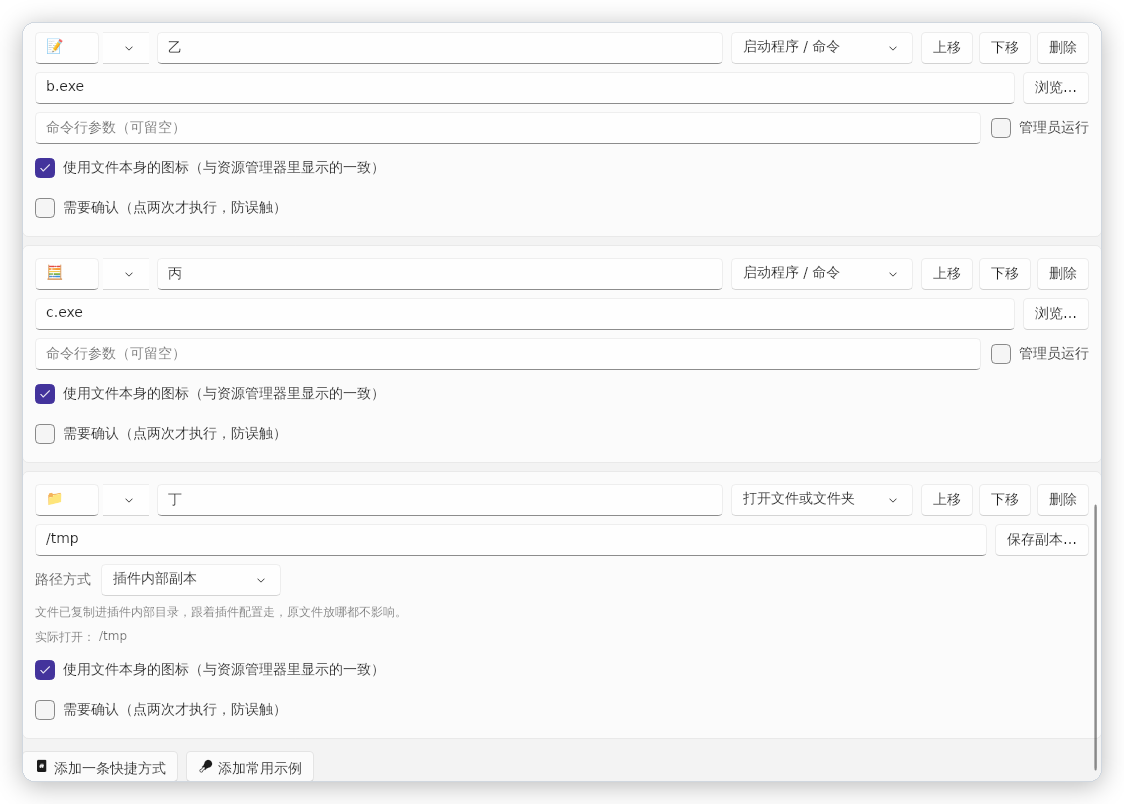
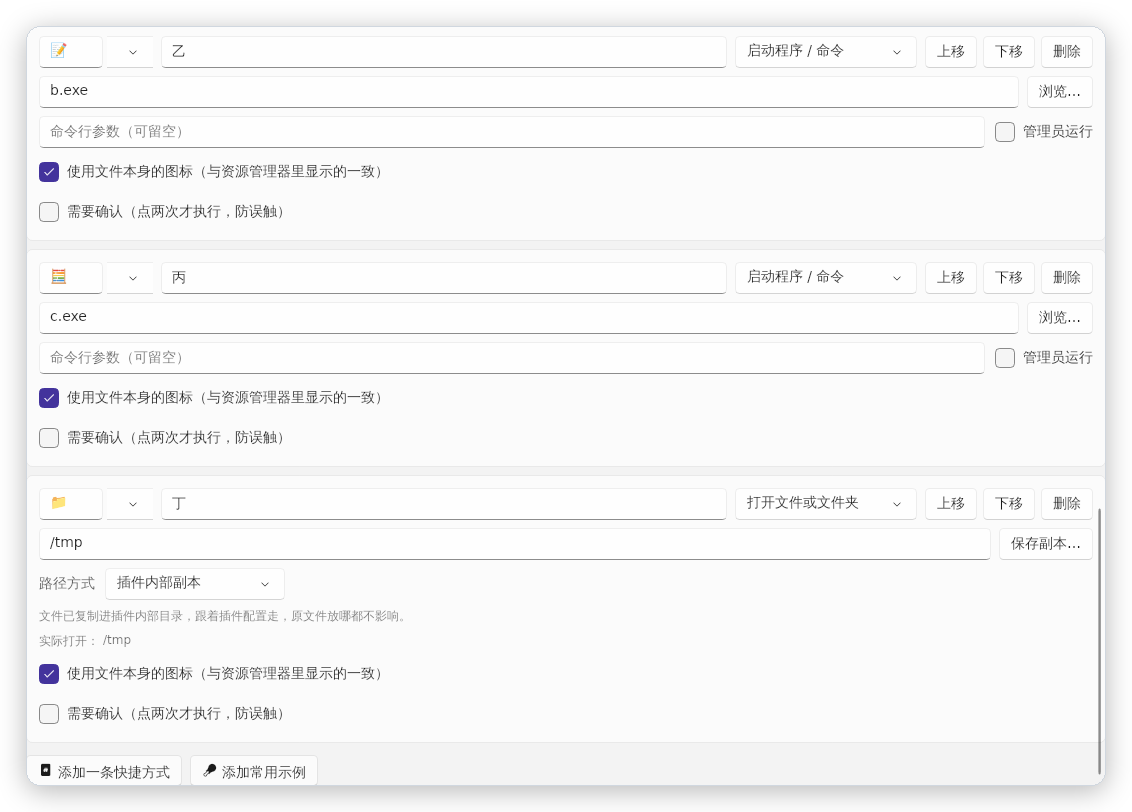
抽签结果改成单朵云，README 致谢去掉自证式表述
- RevealWindow 从头重写：整张卡片就是一朵云，去掉天空背景层和「幸运抽签结果」
  标签，云里只写人名。窗口保持透明，看上去是「一朵云飘在课件上」而不是
  「窗口里画了朵云」。最长连续相同代码块 62 行 → 1 行。
- 顺带清掉一个死参数：Reveal 的 note 从来没被任何调用点传过。
- 补回重写时漏掉的 using（Avalonia.Animation / Avalonia.Layout）——少了它们
  编译器会把 HorizontalAlignment 解析成控件属性而不是枚举类型。
- 测试适配：旧的 _card/_backdrop 断言换成「云面铺满窗口」。
- README 致谢改成平实表述，去掉「不依赖、不包含、不分发」那类反复自证的措辞；
  如实写明抽选算法与统计窗口、大字窗口实现参考自 RandomPicker。

diff --git a/src/ClassIsland.Toolbox/Views/RevealWindow.cs b/src/ClassIsland.Toolbox/Views/RevealWindow.cs
@@ -5,7 +5,6 @@ using Avalonia.Animation.Easings;
 using Avalonia.Controls;
 using Avalonia.Layout;
 using Avalonia.Media;
-using Avalonia.Media.Imaging;
 using Avalonia.Media.Transformation;
 using Avalonia.Threading;
 using ClassIsland.Toolbox.Interop;
@@ -13,68 +12,78 @@ using ClassIsland.Toolbox.Interop;
 namespace ClassIsland.Toolbox.Views;
 
 /// <summary>
-/// 屏幕中央的大字弹窗。抽到谁就把名字亮在屏幕中间，停留几秒后自己淡出。
+/// 抽到人之后亮在屏幕中央的那朵云。
 /// </summary>
 /// <remarks>
+/// <b>整张卡片就是一朵云，没有别的背景。</b>窗口本身是透明的，云外那圈什么都没有，
+/// 所以看上去就是「一朵云飘在课件上」，而不是「一个窗口里画了朵云」。
+/// 云里只写名字，不写「幸运抽签结果」这类标签——抽到什么一眼就看得到，
+/// 再挂一行说明只是抢注意力。
+/// <para/>
 /// 两个关键设计：
 /// <list type="bullet">
-/// <item><b>窗口只有卡片那么大</b>，不铺满屏幕。早先版本是整屏窗口，结果它把悬浮钮盖住了，
+/// <item><b>窗口只有云那么大，不铺满屏幕。</b>早先版本是整屏窗口，结果它把悬浮钮盖住了，
 ///       连着抽人时第二下点的是它而不是钮，表现就是「点不动」。
-///       试过用 <c>WS_EX_TRANSPARENT</c> 让它穿透，但那个样式只在窗口同时是 LAYERED 时才对命中测试生效，
-///       而给 Avalonia 的透明窗口补 <c>WS_EX_LAYERED</c> 会打乱它自己的合成，窗口直接不显示。
-///       两条路都堵死，索性从根上解决：窗口不覆盖屏幕，就没有挡不挡的问题。</item>
-/// <item><b>单例复用</b>。再抽一次不新开窗口，直接换掉里面的名字并重置计时，
+///       试过用 <c>WS_EX_TRANSPARENT</c> 让它穿透，但那个样式只在窗口同时是 LAYERED 时
+///       才对命中测试生效，而给 Avalonia 的透明窗口补 <c>WS_EX_LAYERED</c> 会打乱它自己的合成，
+///       窗口直接不显示。两条路都堵死，索性从根上解决：窗口不覆盖屏幕，就没有挡不挡的问题。</item>
+/// <item><b>单例复用。</b>再抽一次不新开窗口，直接换掉里面的名字并重置计时，
 ///       避免连点时叠出一摞窗口。</item>
 /// </list>
 /// </remarks>
 public class RevealWindow : Window
 {
-    // 和工具条同一套「云朵 + 天空」：淡蓝描边、深蓝灰的字。
-    private static readonly Color SkyCardBorder = Color.FromRgb(0x93, 0xC1, 0xEB);
-    private static readonly Color SkyCardText = Color.FromRgb(0x33, 0x49, 0x5E);
-    private static readonly Color SkyCardTextSoft = Color.FromRgb(0x6E, 0x86, 0x9B);
+    // 和工具条同一套「云 + 天空」：淡蓝描边、深蓝灰的字。
+    private static readonly Color CloudBorder = Color.FromRgb(0x93, 0xC1, 0xEB);
+    private static readonly Color CloudFill = Color.FromArgb(0xFF, 0xFA, 0xFD, 0xFF);
+    private static readonly Color NameColor = Color.FromRgb(0x2B, 0x42, 0x57);
+
+    /// <summary>云面比名字大多少（倍数）。太小会显得字挤满整朵云。</summary>
+    private const double CloudPaddingX = 1.25;
+
+    private const double CloudPaddingTop = 1.30;
+
+    private const double CloudPaddingBottom = 0.80;
 
     private static RevealWindow? _instance;
 
     private readonly TextBlock _nameText;
-    private readonly TextBlock _caption;
-    private readonly StackPanel _content;
-    private readonly Border _card;
-    private readonly CloudBackdrop _backdrop;
+    private readonly CloudButtonSurface _cloud;
+    private readonly Panel _stage;
     private readonly DispatcherTimer _closeTimer;
     private TopmostEnforcer? _topmost;
     private bool _closing;
 
     /// <summary>
-    /// 显示一个名字。已经有窗口开着就复用它，否则新建。
+    /// 亮出一个名字。已经有窗口开着就复用它，否则新建。
     /// </summary>
-    public static void Show(string text, double fontSize, TimeSpan hold, Color accent) =>
-        Show(text, null, fontSize, hold, accent);
-
-    /// <summary>显示一个名字，下面可以再带一行小字说明。</summary>
-    public static void Show(string text, string? caption, double fontSize, TimeSpan hold, Color accent)
+    /// <param name="name">要显示的名字。</param>
+    /// <param name="fontSize">字号（逻辑像素）。云的大小是按它推出来的。</param>
+    /// <param name="hold">停留多久之后自己淡出。</param>
+    public static void Show(string name, double fontSize, TimeSpan hold)
     {
-        Ensure(hold, accent, fontSize).ShowText(text, caption, fontSize, hold, accent);
+        var window = Ensure(hold, fontSize);
+        window.ShowName(name, fontSize, hold);
     }
 
+    /// <summary>把当前开着的弹窗立刻收掉（比如插件停止时）。</summary>
+    public static void CloseCurrent() => _instance?.FadeOutAndClose();
+
     /// <summary>拿到可用的窗口实例：已经开着就复用，否则新建。</summary>
-    private static RevealWindow Ensure(TimeSpan hold, Color accent, double fontSize)
+    private static RevealWindow Ensure(TimeSpan hold, double fontSize)
     {
         if (_instance is { _closing: false } existing)
         {
             return existing;
         }
 
-        var window = new RevealWindow(string.Empty, fontSize, hold, accent);
+        var window = new RevealWindow(fontSize, hold);
         _instance = window;
         window.Show();
         return window;
     }
 
-    /// <summary>把当前开着的弹窗立刻收掉（比如插件停止时）。</summary>
-    public static void CloseCurrent() => _instance?.FadeOutAndClose();
-
-    private RevealWindow(string name, double fontSize, TimeSpan hold, Color accent)
+    private RevealWindow(double fontSize, TimeSpan hold)
     {
         SystemDecorations = SystemDecorations.None;
         Background = null;
@@ -83,68 +92,43 @@ public class RevealWindow : Window
         Topmost = true;
         CanResize = false;
         ShowActivated = false;
-        // 窗口按卡片大小自适应，居中显示。不铺满屏幕，才不会挡住悬浮钮。
+        // 窗口按云的轮廓自适应，居中显示。不铺满屏幕，才不会挡住悬浮钮。
         SizeToContent = SizeToContent.WidthAndHeight;
         WindowStartupLocation = WindowStartupLocation.CenterScreen;
         IsHitTestVisible = false;
 
-        _caption = new TextBlock
-        {
-            FontSize = 20,
-            Foreground = new SolidColorBrush(SkyCardTextSoft),
-            HorizontalAlignment = HorizontalAlignment.Center,
-            TextAlignment = TextAlignment.Center,
-            TextWrapping = TextWrapping.Wrap,
-            Margin = new Thickness(0, 12, 0, 0),
-            IsVisible = false
-        };
-
         _nameText = new TextBlock
         {
-            Text = name,
             FontSize = fontSize,
             FontWeight = FontWeight.SemiBold,
-            Foreground = new SolidColorBrush(SkyCardText),
+            Foreground = new SolidColorBrush(NameColor),
             HorizontalAlignment = HorizontalAlignment.Center,
             VerticalAlignment = VerticalAlignment.Center,
             TextAlignment = TextAlignment.Center,
-            TextWrapping = TextWrapping.Wrap
+            TextWrapping = TextWrapping.Wrap,
+            MaxWidth = Math.Max(280, fontSize * 4.6)
         };
 
-        _content = new StackPanel
+        // 整朵云就是一个控件，把名字压在上面。
+        // **留白加在名字上，不加在云上**：云是按自己的边界画的，
+        // 给它加 Padding 会把云面挤变形，而不是让名字往里缩。
+        _cloud = new CloudButtonSurface
+        {
+            Fill = CloudFill,
+            Stroke = CloudBorder,
+            StrokeThickness = Math.Max(2.0, fontSize * 0.022),
+            ShadowColor = Color.FromArgb(0x3A, 0x5F, 0x9E, 0xD8)
+        };
+
+        _stage = new Panel
         {
             HorizontalAlignment = HorizontalAlignment.Center,
             VerticalAlignment = VerticalAlignment.Center,
-            Children = { _nameText, _caption }
-        };
-
-        // 幸运抽签弹出的这张卡片也做成「云朵 + 天空」：一层天，飘两朵云，字压在云上。
-        // 不铺全屏遮罩——连着抽人时整屏一明一暗很累眼。
-        _backdrop = new CloudBackdrop
-        {
-            CornerRadius = fontSize * 0.18,
-            CloudOpacity = 0.8
-        };
-
-        // 内边距**不能挂在 Border 上**：Border 的 Padding 会把子元素一起缩进去，
-        // 而背景层也是子元素——结果卡片外圈一圈是没有天空的白边，看着就是"背景没铺满"。
-        // 改成把同样的留白加到内容上：背景铺满整张卡，字还是原来的位置。
-        _content.Margin = new Thickness(fontSize * 0.62, fontSize * 0.34);
-
-        _card = new Border
-        {
-            Background = null,
-            CornerRadius = new CornerRadius(fontSize * 0.18),
-            Padding = new Thickness(0),
-            HorizontalAlignment = HorizontalAlignment.Center,
-            VerticalAlignment = VerticalAlignment.Center,
-            BorderBrush = new SolidColorBrush(SkyCardBorder),
-            BorderThickness = new Thickness(1.8),
-            Child = new Panel { Children = { _backdrop, _content } },
+            Children = { _cloud, _nameText },
             Opacity = 0,
             // 用 TransformOperations 而不是自己搭 ScaleTransform：
-            // 过渡挂在 Border（一个 Visual）上，有自己的时钟能正常跑；
-            // 单独的 ScaleTransform 不是 Visual，交给 Animation.RunAsync 会抛类型转换异常。
+            // 过渡挂在 Visual 上才有自己的时钟；单独的 ScaleTransform 不是 Visual，
+            // 交给 Animation.RunAsync 会抛类型转换异常。
             RenderTransform = TransformOperations.Parse("scale(0.92)"),
             RenderTransformOrigin = RelativePoint.Center,
             Transitions =
@@ -164,39 +148,40 @@ public class RevealWindow : Window
             ]
         };
 
-        Content = new Panel { Children = { _card } };
+        ApplyScale(fontSize);
+        Content = new Panel { Children = { _stage } };
 
         _closeTimer = new DispatcherTimer { Interval = hold };
         _closeTimer.Tick += (_, _) => FadeOutAndClose();
     }
 
-    /// <summary>复用当前窗口显示一个名字。</summary>
-    private void ShowText(string text, string? caption, double fontSize, TimeSpan hold, Color accent)
-    {
-        _caption.IsVisible = !string.IsNullOrEmpty(caption);
-        _caption.Text = caption ?? string.Empty;
-        _caption.MaxWidth = Math.Max(240, fontSize * 5);
-        _nameText.IsVisible = true;
-        _nameText.Text = text;
-        _nameText.FontSize = fontSize;
+    /// <summary>按字号把云面撑到比名字大一圈。</summary>
+    private void ApplyScale(double fontSize) =>
+        _nameText.Margin = new Thickness(
+            fontSize * CloudPaddingX,
+            fontSize * CloudPaddingTop,
+            fontSize * CloudPaddingX,
+            fontSize * CloudPaddingBottom);
 
-        _card.CornerRadius = new CornerRadius(fontSize * 0.18);
-        _backdrop.CornerRadius = fontSize * 0.18;
-        _content.Margin = new Thickness(fontSize * 0.62, fontSize * 0.34);
-        Bump(hold, accent);
+    /// <summary>复用当前窗口显示一个名字。</summary>
+    private void ShowName(string name, double fontSize, TimeSpan hold)
+    {
+        _nameText.Text = name;
+        _nameText.FontSize = fontSize;
+        ApplyScale(fontSize);
+        Bump(hold);
     }
 
     /// <summary>缩一下再弹回来，给出「换了一个」的反馈，比原地换内容更容易察觉。</summary>
-    private void Bump(TimeSpan hold, Color accent)
+    private void Bump(TimeSpan hold)
     {
         _closeTimer.Stop();
-        _card.BorderBrush = new SolidColorBrush(SkyCardBorder);
-        _card.RenderTransform = TransformOperations.Parse("scale(0.94)");
+        _stage.RenderTransform = TransformOperations.Parse("scale(0.94)");
         Dispatcher.UIThread.Post(
-            () => _card.RenderTransform = TransformOperations.Parse("scale(1)"),
+            () => _stage.RenderTransform = TransformOperations.Parse("scale(1)"),
             DispatcherPriority.Render);
 
-        _card.Opacity = 1;
+        _stage.Opacity = 1;
         _closeTimer.Interval = hold;
         _closeTimer.Start();
         _topmost?.Reassert();
@@ -213,14 +198,14 @@ public class RevealWindow : Window
         _topmost.Attach();
 
         // 入场：设一次目标值，剩下的交给上面挂好的过渡。
-        _card.Opacity = 1;
-        _card.RenderTransform = TransformOperations.Parse("scale(1)");
+        _stage.Opacity = 1;
+        _stage.RenderTransform = TransformOperations.Parse("scale(1)");
 
         _closeTimer.Start();
     }
 
     /// <summary>
-    /// 把窗口摆到当前屏幕正中。内容换了大小会变，所以 SizeChanged 时要重新摆一次。
+    /// 把窗口摆到当前屏幕正中。名字长短不同云的宽度也不同，所以尺寸一变就要重摆。
     /// </summary>
     private void CenterOnScreen()
     {
@@ -252,8 +237,8 @@ public class RevealWindow : Window
 
         _closing = true;
         _closeTimer.Stop();
-        _card.Opacity = 0;
-        _card.RenderTransform = TransformOperations.Parse("scale(0.96)");
+        _stage.Opacity = 0;
+        _stage.RenderTransform = TransformOperations.Parse("scale(0.96)");
 
         var fade = new DispatcherTimer { Interval = TimeSpan.FromMilliseconds(160) };
         fade.Tick += (_, _) =>

diff --git a/tests/TbTest/Program.cs b/tests/TbTest/Program.cs
@@ -994,7 +994,7 @@ internal static class Program
     {
         try
         {
-            RevealWindow.Show("张三", "幸运抽签结果", 148, TimeSpan.FromSeconds(30), Colors.White);
+            RevealWindow.Show("张三", 148, TimeSpan.FromSeconds(30));
             Dispatcher.UIThread.RunJobs();
             Thread.Sleep(200);
             Dispatcher.UIThread.RunJobs();
@@ -1013,18 +1013,18 @@ internal static class Program
             Check(window.Bounds.Width > 100 && window.Bounds.Height > 60,
                 $"大字窗口有正常尺寸（{window.Bounds.Width:F0}x{window.Bounds.Height:F0}）");
 
-            // 背景必须铺满卡片。
-            // 这条曾经漏过：内边距挂在 Border 上，把作为子元素的背景层也一起缩了进去，
-            // 卡片外圈就空出一圈没有天空的白边——看着就是"背景渲染不全"。
+            // 云面要铺满窗口：窗口本身是透明的，云没铺满的话边上会空出一圈。
             {
-                var card = Field<Border>(window, "_card");
-                var backdrop = Field<CloudBackdrop>(window, "_backdrop");
-                Check(backdrop.Bounds.Width >= card.Bounds.Width - 4 &&
-                      backdrop.Bounds.Height >= card.Bounds.Height - 4,
-                    $"背景铺满卡片（背景 {backdrop.Bounds.Width:F0}x{backdrop.Bounds.Height:F0} / " +
-                    $"卡片 {card.Bounds.Width:F0}x{card.Bounds.Height:F0}）");
+                var stage = Field<Panel>(window, "_stage");
+                var cloud = Field<CloudButtonSurface>(window, "_cloud");
+
+                Check(cloud.Bounds.Width >= stage.Bounds.Width - 4 &&
+                      cloud.Bounds.Height >= stage.Bounds.Height - 4,
+                    $"云面铺满窗口（云 {cloud.Bounds.Width:F0}x{cloud.Bounds.Height:F0} / " +
+                    $"窗口 {stage.Bounds.Width:F0}x{stage.Bounds.Height:F0}）");
             }
-            Capture(window, "reveal.png", "幸运抽签大字窗口：云朵天空卡片");
+
+            Capture(window, "reveal.png", "幸运抽签结果：单朵云 + 人名");
 
             RevealWindow.CloseCurrent();
             Dispatcher.UIThread.RunJobs();

diff --git a/src/ClassIsland.Toolbox/Services/ToolboxHostService.cs b/src/ClassIsland.Toolbox/Services/ToolboxHostService.cs
@@ -195,18 +195,18 @@ public class ToolboxHostService : IHostedService
         }
     }
 
-    private void Reveal(string text, bool isHint, string? note = null)
+    /// <summary>在屏幕中央的云上亮一行字。</summary>
+    /// <param name="text">要显示的内容。</param>
+    /// <param name="isHint">
+    /// 是不是提示语。提示用小一号的字——提示不该比抽到的名字还抢眼。
+    /// </param>
+    private void Reveal(string text, bool isHint)
     {
         RevealWindow.Show(
             text,
-            note,
             isHint ? _settings.RevealFontSize * 0.42 : _settings.RevealFontSize,
-            TimeSpan.FromSeconds(Math.Clamp(_settings.RevealSeconds, 0.5, 30)),
-            _window?.Accent ?? DefaultAccent);
+            TimeSpan.FromSeconds(Math.Clamp(_settings.RevealSeconds, 0.5, 30)));
     }
-
-    private static readonly Avalonia.Media.Color DefaultAccent =
-        Avalonia.Media.Color.FromRgb(0x5B, 0x8D, 0xEF);
 
     private void SendNotification(string name)
     {

diff --git a/README.md b/README.md
@@ -161,12 +161,12 @@ dotnet run --project tests/TbTest/TbTest.csproj -c Release
 
 ### 致谢
 
-这个项目从里到外由 **秋夕月拾旧** 独立完成。**代码不依赖、不包含、也不分发任何其他插件或仓库**（`ClassIsland.Core`、`Avalonia` 是宿主与 UI 框架，通过 NuGet 引用，不属于插件）。
+这个项目由 **秋夕月拾旧** 独立完成。
 
 开发过程中参考过下面这些项目，在此致谢：
 
 - **[ClassIsland](https://github.com/ClassIsland/ClassIsland)** —— 插件框架、宿主 API、`.cipx` 打包约定，以及官方插件模板与 `ExamplePlugin`。
-- **[RandomPicker](https://github.com/Gordonynh/RandomPicker)** —— 幸运抽签的公平抽选思路参考。
+- **[RandomPicker](https://github.com/Gordonynh/RandomPicker)** —— 幸运抽签的抽选算法，以及统计窗口、中央大字窗口的实现思路，参考自这个项目。
 
 ### 许可
 
